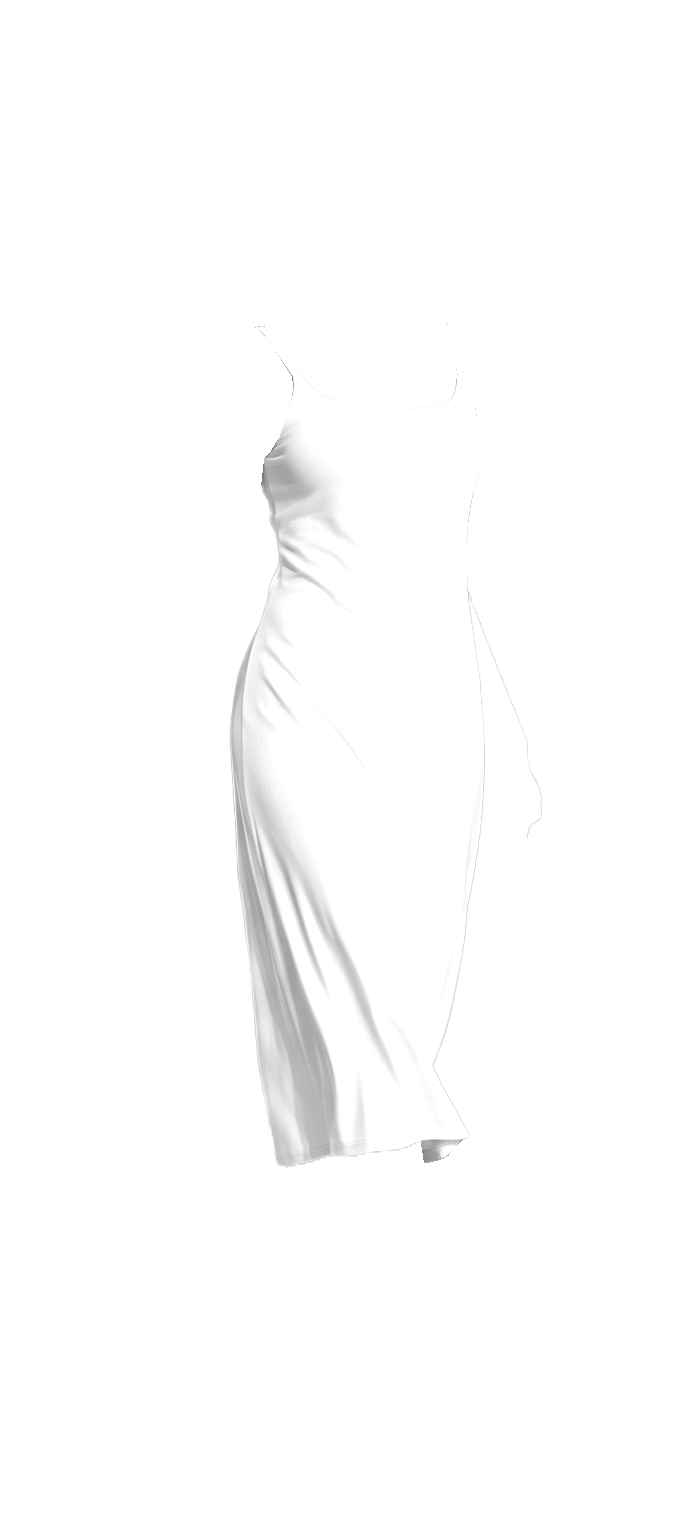
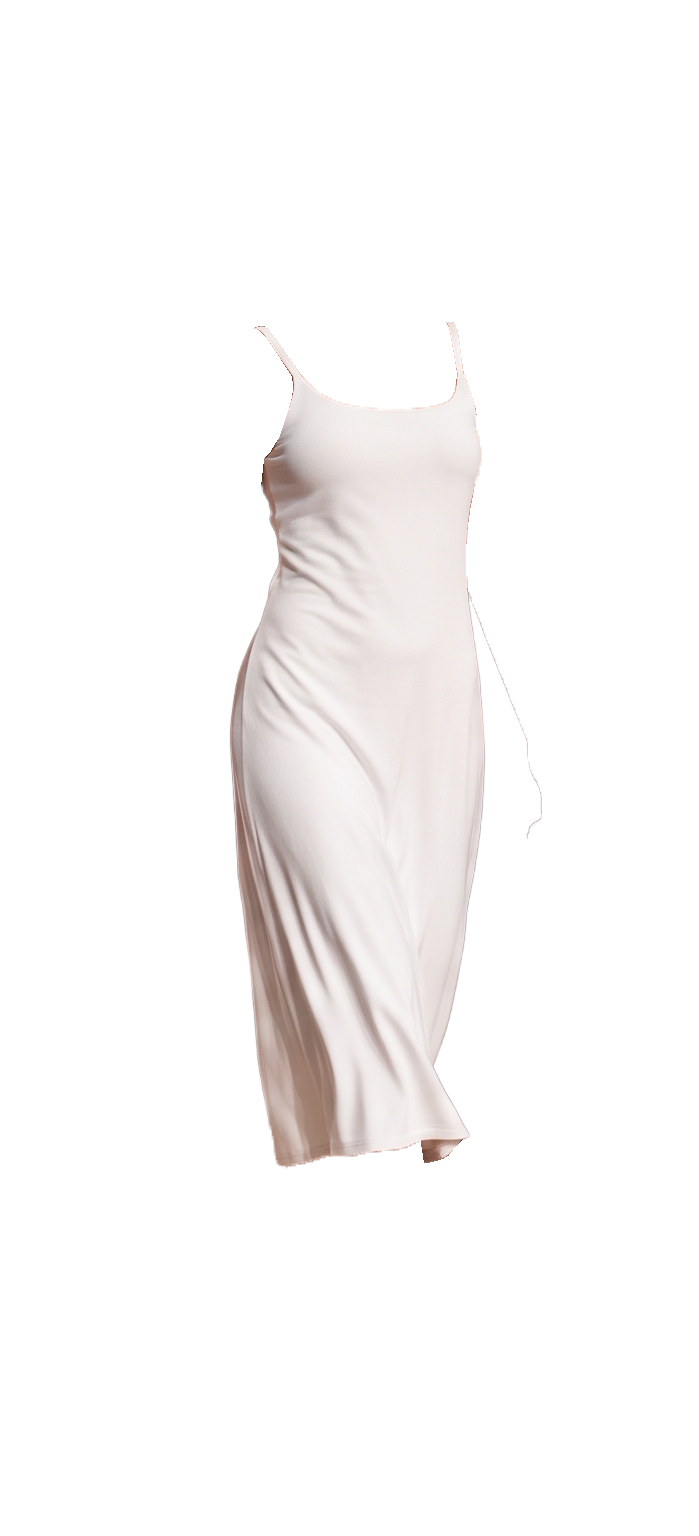
Update all 4 catwalk models from freshly saved PSDs with optimized overlay shading

Changed region(s): [[0.3305, 0.2188, 0.691, 0.7812], [0.6309, 0.1875, 0.6609, 0.2188]]

diff --git a/templates/index.html b/templates/index.html
@@ -691,9 +691,9 @@ document.addEventListener('DOMContentLoaded', function() {
 
   for (let i = 1; i <= 4; i++) {
     const f = framesData[i - 1];
-    loadPromises.push(loadFrameAsset(`/static/images/catwalk/catwalk_${i}_bg.jpg`).then(img => f.bg = img));
-    loadPromises.push(loadFrameAsset(`/static/images/catwalk/catwalk_${i}_mask.png`).then(img => f.mask = img));
-    loadPromises.push(loadFrameAsset(`/static/images/catwalk/catwalk_${i}_shade.png`).then(img => f.shade = img));
+    loadPromises.push(loadFrameAsset(`/static/images/catwalk/catwalk_${i}_bg.jpg?v=3.0`).then(img => f.bg = img));
+    loadPromises.push(loadFrameAsset(`/static/images/catwalk/catwalk_${i}_mask.png?v=3.0`).then(img => f.mask = img));
+    loadPromises.push(loadFrameAsset(`/static/images/catwalk/catwalk_${i}_shade.png?v=3.0`).then(img => f.shade = img));
   }
 
   Promise.all(loadPromises).then(() => {
@@ -760,10 +760,10 @@ document.addEventListener('DOMContentLoaded', function() {
         offCtx.globalCompositeOperation = 'destination-in';
         offCtx.drawImage(f.mask, 0, 0, CANVAS_W, CANVAS_H);
 
-        // Apply shade & highlight layer with Photoshop exact OVERLAY blend mode (Opacity: 0.70)
+        // Apply shade & highlight layer with Photoshop exact OVERLAY blend mode (PSD Opacity: 89 / 255 = 0.35)
         if (f.shade) {
           offCtx.globalCompositeOperation = 'overlay';
-          offCtx.globalAlpha = 0.70;
+          offCtx.globalAlpha = 0.35;
           offCtx.drawImage(f.shade, 0, 0, CANVAS_W, CANVAS_H);
           offCtx.globalAlpha = 1.0;
           
